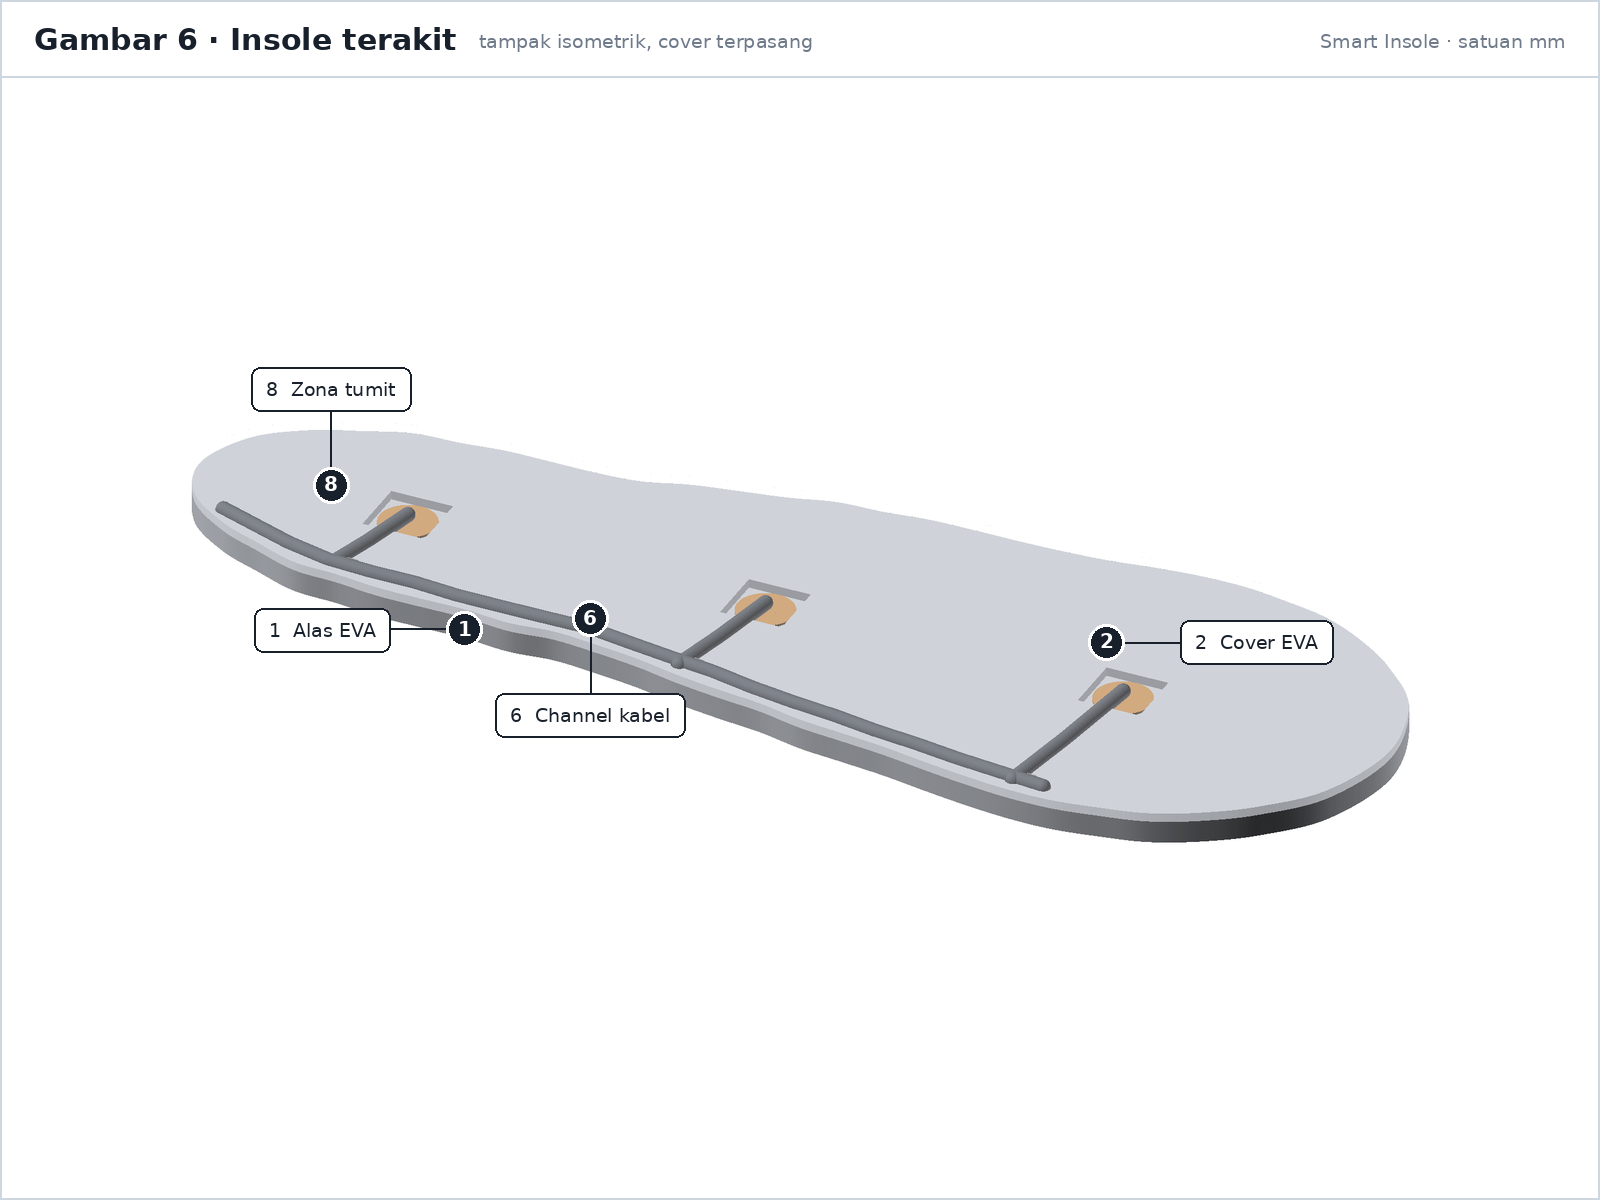
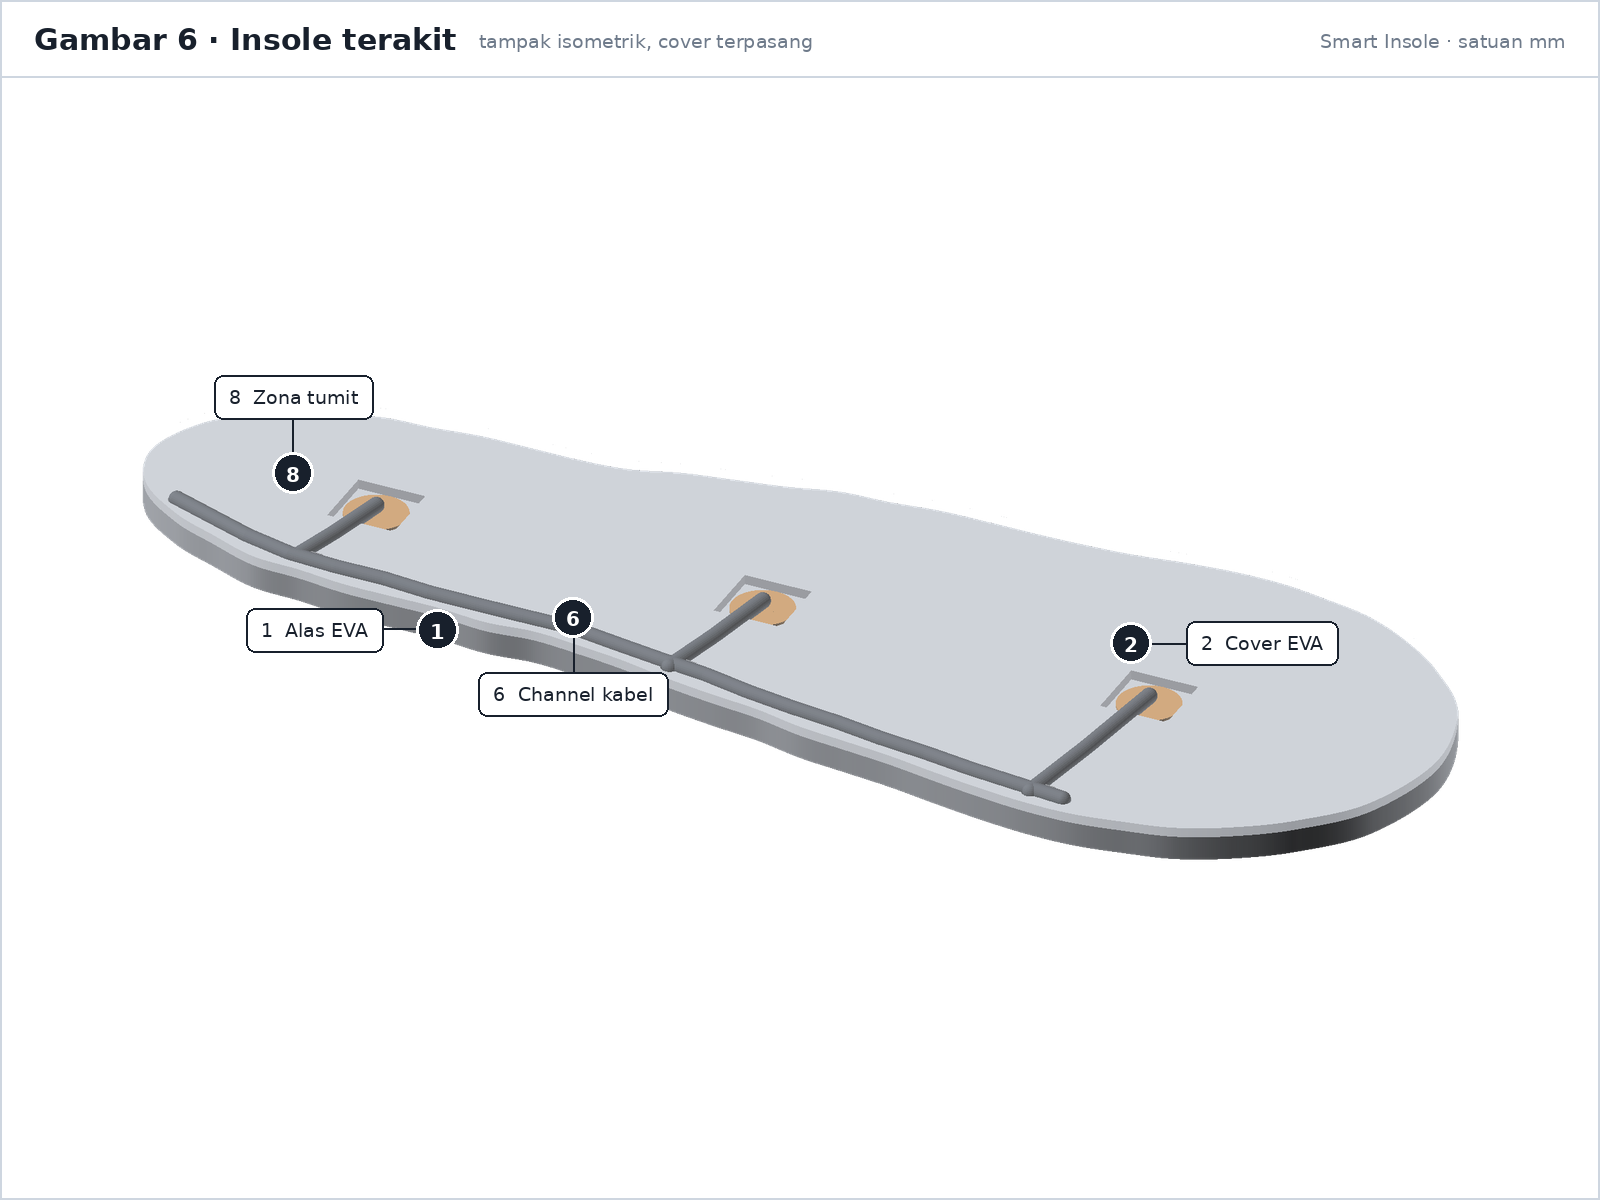
docs(3d): fix cut-face colour, badge scale, and detail cutaway
Colour() di dalam intersection() membuat OpenSCAD 2021.01 mewarnai
permukaan potongan dengan warna "back" colorscheme (biru pada tema
Tomorrow). DETAIL kini memotong alas, sensor+ekor, dan kabel terpisah
dengan color() di luar intersection(), dan kotak potongnya jadi module
di level atas karena module tidak boleh dideklarasikan di dalam blok if.

compose() memotong render ke bbox objek lalu menskalakan ke kanvas
supaya detail kecil tidak lagi tenggelam di ruang kosong, latar hq
memakai gradien penuh plus bayangan kontak, dan radius badge mengikuti
bola penanda yang terdeteksi sehingga tidak ada warna marker menyembul.

Tampak atas memakai NOCABLE agar garis dimensi jatuh tepat di tepi
tapak; tampak ledak menaikkan LIFT ke 48 dan menaruh penanda cover di
tepi lateral karena permukaan atasnya tertutup lapisan kain.

diff --git a/docs/3d/annotate.py b/docs/3d/annotate.py
@@ -192,7 +192,10 @@ def hsv_arrays(arr):
 
 
 def find_markers(arr, n):
-    """Cari n bola penanda lewat warna; kembalikan [(x, y) di piksel render].
+    """Cari n bola penanda lewat warna; kembalikan [(x, y, radius)].
+
+    Radius (persentil 95 jarak piksel dari pusat) dipakai untuk menentukan
+    besar badge, supaya bola penanda selalu tertutup rapat oleh badge.
 
     Ambang bawah dibuat longgar: sisi bola yang membelakangi cahaya dapat
     menjadi sangat gelap (val ~ 0,08) atau tertutup sebagian, sedangkan warna
@@ -219,7 +222,9 @@ def find_markers(arr, n):
             raise SystemExit(
                 f"penanda ke-{i + 1} ({MARKER_HEX[i]}) tidak ditemukan di render")
         ys, xs = np.nonzero(sel)
-        out.append((float(np.median(xs)), float(np.median(ys))))
+        cx, cy = float(np.median(xs)), float(np.median(ys))
+        d = np.hypot(xs - cx, ys - cy)
+        out.append((cx, cy, float(np.percentile(d, 95))))
     return out
 
 
@@ -232,8 +237,22 @@ def object_bbox(arr, bg):
     return obj, (int(xs.min()), int(ys.min()), int(xs.max()), int(ys.max()))
 
 
+def backdrop(w, h, style):
+    """Latar kanvas penuh: putih polos, atau gradien lembut untuk hq."""
+    canvas = Image.new("RGB", (w, h), (255, 255, 255))
+    if style != "hq":
+        return canvas
+    t = np.linspace(0, 1, h)[:, None, None] ** 1.5
+    top = np.array([255, 255, 255], "float32")
+    bot = np.array([222, 231, 239], "float32")
+    rows = (top + (bot - top) * t).astype("uint8")
+    canvas.paste(Image.fromarray(np.repeat(rows, w, axis=1)), (0, 0))
+    return canvas
+
+
 def compose():
     w, h = FIGS["output"]
+    bar = 76
     for f in FIGS["figures"]:
         fid = f["id"]
         src = RAW / f"{fid}.png"
@@ -245,54 +264,37 @@ def compose():
         marks = find_markers(arr, len(f["callouts"]))
         H, W = arr.shape[:2]
 
-        # --- potong ke objek + ruang untuk label/dimensi, lalu perbesar
-        pad = 0.10 * max(x1 - x0, y1 - y0) + 40
-        cx0 = max(0, int(x0 - pad))
-        cy0 = max(0, int(y0 - pad))
-        cx1 = min(W, int(x1 + pad))
-        cy1 = min(H, int(y1 + pad))
+        # potong ke objek + sedikit ruang, lalu skalakan ke kanvas
+        pad = 0.06 * max(x1 - x0, y1 - y0) + 24
+        cx0, cy0 = max(0, int(x0 - pad)), max(0, int(y0 - pad))
+        cx1, cy1 = min(W, int(x1 + pad)), min(H, int(y1 + pad))
+        layer = Image.fromarray(
+            np.dstack([arr, (obj * 255).astype("uint8")])[cy0:cy1, cx0:cx1], "RGBA")
+        cw, ch = layer.size
 
-        # lapisan objek (alpha = mask) pada latar baru
-        obj_rgba = np.dstack([arr, (obj * 255).astype("uint8")])
-        crop = Image.fromarray(obj_rgba[cy0:cy1, cx0:cx1], "RGBA")
-        cw, ch = crop.size
-
-        if f["style"] == "hq":
-            t = np.linspace(0, 1, ch)[:, None, None] ** 1.4
-            top = np.array([255, 255, 255], "float32")
-            bot = np.array([224, 232, 240], "float32")
-            backdrop = (top + (bot - top) * t).astype("uint8")
-            backdrop = np.repeat(backdrop, cw, axis=1)
-            back = Image.fromarray(backdrop)
-            shadow = Image.new("L", (cw, ch), 0)
-            sx0, sy0 = x0 - cx0, y0 - cy0
-            sx1, sy1 = x1 - cx0, y1 - cy0
-            ImageDraw.Draw(shadow).ellipse(
-                [sx0 - 70, sy1 - 110, sx1 + 70, sy1 + 90], fill=96)
-            shadow = shadow.filter(ImageFilter.GaussianBlur(60))
-            back.paste((148, 160, 176), (0, 0), shadow)
-        else:
-            back = Image.new("RGB", (cw, ch), (255, 255, 255))
-        back.paste(crop, (0, 0), crop)
-
-        # --- muat ke kanvas 1600x1200 dengan margin untuk judul & dimensi
-        bar = 76
-        ml, mr, mt, mb = 46, 46, bar + 34, 46
+        ml, mr, mt, mb = 48, 48, bar + 36, 48
         if f.get("dims"):
-            mb += 66
-            mr += 66
-        avail_w, avail_h = w - ml - mr, h - mt - mb
-        s = min(avail_w / cw, avail_h / ch)
+            mb += 70
+            mr += 70
+        s = min((w - ml - mr) / cw, (h - mt - mb) / ch)
         nw, nh = int(cw * s), int(ch * s)
-        ox = ml + (avail_w - nw) // 2
-        oy = mt + (avail_h - nh) // 2
+        ox = ml + (w - ml - mr - nw) // 2
+        oy = mt + (h - mt - mb - nh) // 2
 
-        canvas = Image.new("RGB", (w, h), (255, 255, 255))
-        canvas.paste(back.resize((nw, nh), Image.LANCZOS), (ox, oy))
-        draw = ImageDraw.Draw(canvas)
-        marks = [(ox + (x - cx0) * s, oy + (y - cy0) * s) for x, y in marks]
+        canvas = backdrop(w, h, f["style"])
         box = [ox + (x0 - cx0) * s, oy + (y0 - cy0) * s,
                ox + (x1 - cx0) * s, oy + (y1 - cy0) * s]
+        if f["style"] == "hq":
+            shadow = Image.new("L", (w, h), 0)
+            ImageDraw.Draw(shadow).ellipse(
+                [box[0] - 50, box[3] - 70, box[2] + 50, box[3] + 60], fill=110)
+            shadow = shadow.filter(ImageFilter.GaussianBlur(48))
+            canvas.paste((150, 162, 178), (0, 0), shadow)
+
+        canvas.paste(layer.resize((nw, nh), Image.LANCZOS), (ox, oy),
+                     layer.resize((nw, nh), Image.LANCZOS))
+        draw = ImageDraw.Draw(canvas)
+        marks = [(ox + (x - cx0) * s, oy + (y - cy0) * s, r * s) for x, y, r in marks]
         draw_figure(canvas, draw, f, marks, box)
         canvas.save(RENDER / f"{fid}.png")
         print(f"compose: render/{fid}.png  {w}×{h}  {len(marks)} penunjuk")
@@ -303,7 +305,6 @@ def draw_figure(canvas, draw, fig, marks, box):
     title_font = font(30, True)
     sub_font = font(19)
     label_font = font(19)
-    num_font = font(20, True)
 
     # ---- judul
     bar = 76
@@ -343,22 +344,27 @@ def draw_figure(canvas, draw, fig, marks, box):
                       fill=(140, 104, 40))
 
     # ---- label + badge
+    # radius badge mengikuti besar bola penanda di layar, supaya badannya
+    # selalu tertutup rapat (kalau tidak, bola warna menyembul di tepi badge)
+    badges = [max(16.0, min(34.0, r * 1.15 + 4)) for _, _, r in marks]
+
     labels = []
     for i, c in enumerate(fig["callouts"]):
         comp = BY_ID[c["c"]]
         text = f"{NUM[c['c']]}  {comp['name']}"
         tw = draw.textlength(text, font=label_font)
         bw, bh = tw + 30, 44
-        bx, by = marks[i]
+        bx, by, _ = marks[i]
+        gap = badges[i] + 34
         d = c.get("dir", "right")
         if d == "right":
-            r = [bx + 74, by - bh / 2, bx + 74 + bw, by + bh / 2]
+            r = [bx + gap, by - bh / 2, bx + gap + bw, by + bh / 2]
         elif d == "left":
-            r = [bx - 74 - bw, by - bh / 2, bx - 74, by + bh / 2]
+            r = [bx - gap - bw, by - bh / 2, bx - gap, by + bh / 2]
         elif d == "up":
-            r = [bx - bw / 2, by - 74 - bh, bx + bw / 2, by - 74]
+            r = [bx - bw / 2, by - gap - bh, bx + bw / 2, by - gap]
         else:
-            r = [bx - bw / 2, by + 74, bx + bw / 2, by + 74 + bh]
+            r = [bx - bw / 2, by + gap, bx + bw / 2, by + gap + bh]
         labels.append({"i": i, "rect": r, "dir": d, "text": text})
 
     for _ in range(240):
@@ -391,7 +397,7 @@ def draw_figure(canvas, draw, fig, marks, box):
             break
 
     for lb in labels:
-        bx, by = marks[lb["i"]]
+        bx, by, _ = marks[lb["i"]]
         r = lb["rect"]
         ax = min(max(bx, r[0]), r[2])
         ay = min(max(by, r[1]), r[3])
@@ -399,14 +405,15 @@ def draw_figure(canvas, draw, fig, marks, box):
         draw.rounded_rectangle(r, radius=9, fill=(255, 255, 255), outline=INK, width=2)
         draw.text((r[0] + 15, r[1] + 11), lb["text"], font=label_font, fill=INK)
 
-    for i, (bx, by) in enumerate(marks):
-        comp = BY_ID[fig["callouts"][i]["c"]]
-        r = 18
-        draw.ellipse([bx - r, by - r, bx + r, by + r], fill=BADGE_FILL,
+    for i, (bx, by, _) in enumerate(marks):
+        br = badges[i]
+        draw.ellipse([bx - br, by - br, bx + br, by + br], fill=BADGE_FILL,
                      outline=(255, 255, 255), width=3)
         txt = str(NUM[fig["callouts"][i]["c"]])
-        tw = draw.textlength(txt, font=num_font)
-        draw.text((bx - tw / 2, by - 13), txt, font=num_font, fill=(255, 255, 255))
+        nf = font(max(15, min(26, int(br * 1.02))), True)
+        tw = draw.textlength(txt, font=nf)
+        ah = nf.getbbox(txt)[3]
+        draw.text((bx - tw / 2, by - ah / 2 - 1), txt, font=nf, fill=(255, 255, 255))
 
     draw.rectangle([0, 0, w - 1, h - 1], outline=RULE, width=2)
 
